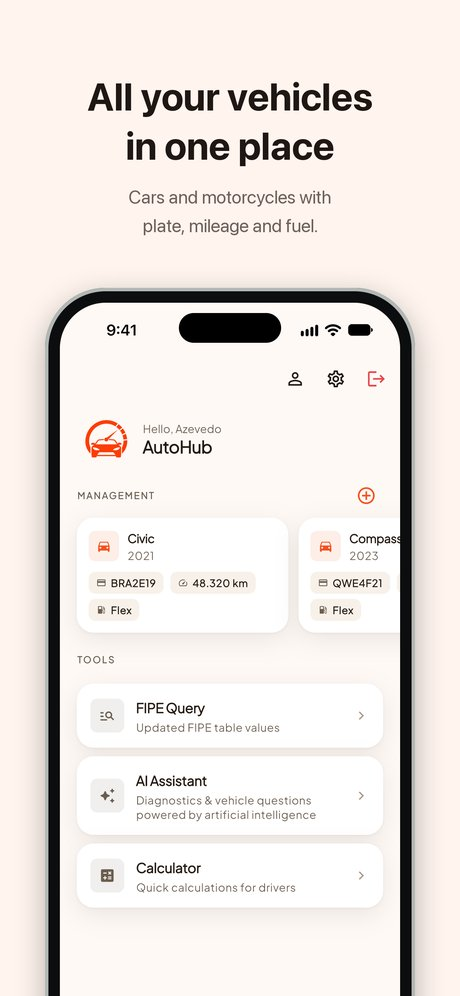
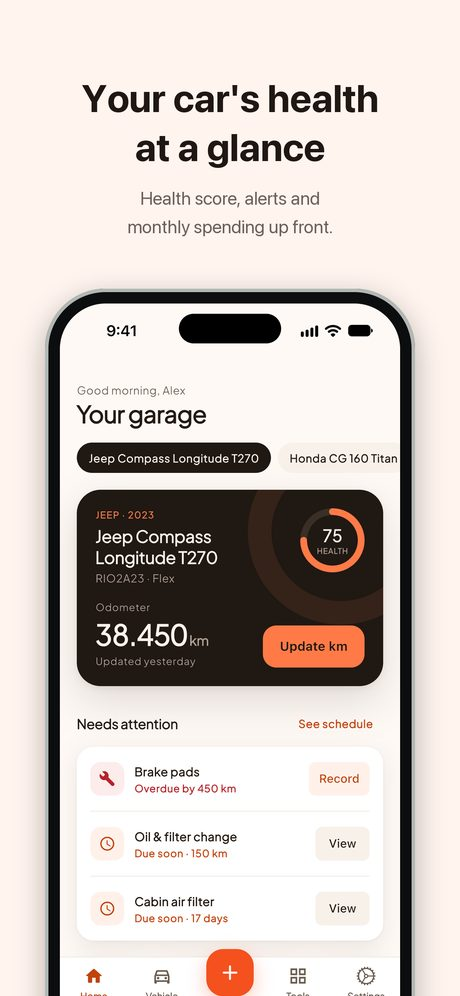
feat: AutoHub screenshots after the 2027 redesign
Replace the 6 pt/en screens with the redesigned app and add a 7th
(Tools: AI assistant, FIPE table and calculators).

Claude-Session: https://claude.ai/code/session_01JKH1Yzgq8dbDmtdWtxfwxj

diff --git a/projects/autohub/index.html b/projects/autohub/index.html
@@ -128,7 +128,7 @@
                 <div class="project-block-body">
                     <ul class="screens" tabindex="0" aria-label="Capturas de tela do app" data-i18n-aria="ui_screens_label">
                         <li><img src="../../images/screens/autohub/pt/1.jpg" data-i18n-src="../../images/screens/autohub/{lang}/1.jpg" width="460" height="996" loading="lazy"
-                                alt="Tela inicial com os veículos" data-i18n-alt="screen_0"></li>
+                                alt="Tela inicial com a saúde do veículo" data-i18n-alt="screen_0"></li>
                         <li><img src="../../images/screens/autohub/pt/2.jpg" data-i18n-src="../../images/screens/autohub/{lang}/2.jpg" width="460" height="996" loading="lazy"
                                 alt="Informações do veículo" data-i18n-alt="screen_1"></li>
                         <li><img src="../../images/screens/autohub/pt/3.jpg" data-i18n-src="../../images/screens/autohub/{lang}/3.jpg" width="460" height="996" loading="lazy"
@@ -139,6 +139,8 @@
                                 alt="Consulta à tabela FIPE" data-i18n-alt="screen_4"></li>
                         <li><img src="../../images/screens/autohub/pt/6.jpg" data-i18n-src="../../images/screens/autohub/{lang}/6.jpg" width="460" height="996" loading="lazy"
                                 alt="Assistente de IA" data-i18n-alt="screen_5"></li>
+                        <li><img src="../../images/screens/autohub/pt/7.jpg" data-i18n-src="../../images/screens/autohub/{lang}/7.jpg" width="460" height="996" loading="lazy"
+                                alt="Ferramentas: assistente de IA, tabela FIPE e calculadoras" data-i18n-alt="screen_6"></li>
                     </ul>
                 </div>
             </div>
@@ -305,12 +307,13 @@
                 "meta_title": "AutoHub: app de gestão veicular, manutenção e tabela FIPE",
                 "ui_screens": "Telas",
                 "ui_screens_label": "Capturas de tela do app",
-                "screen_0": "Tela inicial com os veículos",
+                "screen_0": "Tela inicial com a saúde do veículo",
                 "screen_1": "Informações do veículo",
                 "screen_2": "Manutenções do veículo",
                 "screen_3": "Histórico de abastecimentos e consumo",
                 "screen_4": "Consulta à tabela FIPE",
                 "screen_5": "Assistente de IA",
+                "screen_6": "Ferramentas: assistente de IA, tabela FIPE e calculadoras",
                 "meta_description": "Controle manutenções e abastecimentos do carro, receba lembretes, consulte a tabela FIPE e tire dúvidas com um assistente de IA. Grátis para Android e iOS.",
                 "ui_skip": "Pular para o conteúdo",
                 "ui_no": "Não incluído",
@@ -369,12 +372,13 @@
                 "meta_title": "AutoHub: car maintenance tracker and fuel log app",
                 "ui_screens": "Screens",
                 "ui_screens_label": "App screenshots",
-                "screen_0": "Home screen with your vehicles",
+                "screen_0": "Home screen with your vehicle's health",
                 "screen_1": "Vehicle details",
                 "screen_2": "Vehicle maintenance",
                 "screen_3": "Fuel log and consumption",
                 "screen_4": "FIPE price lookup",
                 "screen_5": "AI assistant",
+                "screen_6": "Tools: AI assistant, FIPE prices and calculators",
                 "meta_description": "Track your car's maintenance and fill-ups, get reminders, check FIPE prices and ask an AI assistant. Free for Android and iOS.",
                 "ui_skip": "Skip to content",
                 "ui_no": "Not included",
@@ -433,12 +437,13 @@
                 "meta_title": "AutoHub: app de gestión vehicular, mantenimiento y tabla FIPE",
                 "ui_screens": "Pantallas",
                 "ui_screens_label": "Capturas de pantalla de la app",
-                "screen_0": "Pantalla de inicio con los vehículos",
+                "screen_0": "Pantalla de inicio con la salud del vehículo",
                 "screen_1": "Información del vehículo",
                 "screen_2": "Mantenimientos del vehículo",
                 "screen_3": "Historial de cargas y consumo",
                 "screen_4": "Consulta de la tabla FIPE",
                 "screen_5": "Asistente de IA",
+                "screen_6": "Herramientas: asistente de IA, tabla FIPE y calculadoras",
                 "meta_description": "Controla los mantenimientos y las cargas de combustible de tu auto, recibe recordatorios, consulta la tabla FIPE y resuelve dudas con IA. Gratis para Android e iOS.",
                 "ui_skip": "Saltar al contenido",
                 "ui_no": "No incluido",
